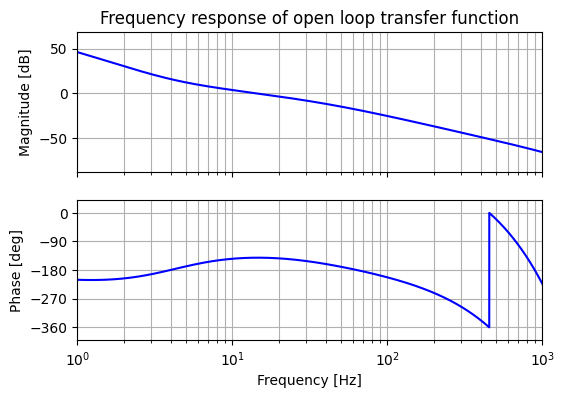
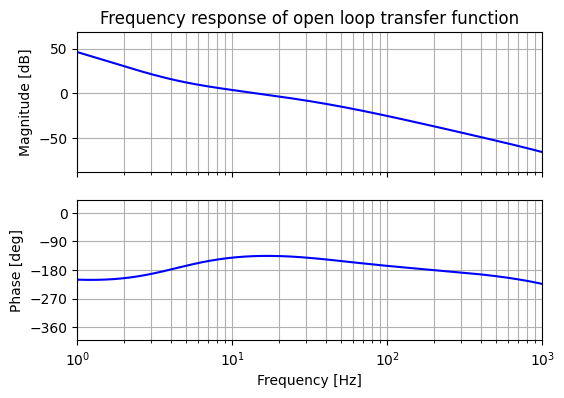
v-0.4.0

Changed region(s): [[0.2411, 0.5427, 0.9645, 0.8442], [0.1507, 0.6935, 0.2411, 0.7236], [0.9043, 0.603, 0.9344, 0.6332]]

diff --git a/example/Run_ptc.py b/example/Run_ptc.py
@@ -11,7 +11,9 @@ init.close_all()
 import os
 import shutil
 import numpy as np
+import control as ct
 from control import matlab
+import scipy.signal as signal
 from pylib_sakata import ctrl
 from pylib_sakata import traj
 from pylib_sakata import plot
@@ -19,7 +21,7 @@ from pylib_sakata import plot
 print('Start simulation!')
 
 # Common parameters
-figurefolderName = 'figure_exercise_15'
+figurefolderName = 'figure_ptc'
 if os.path.exists(figurefolderName):
     shutil.rmtree(figurefolderName)
 os.makedirs(figurefolderName)
@@ -35,11 +37,17 @@ print('Common parameters were set.')
 M = 2.0
 C = 10.0
 K = 0
-Pmechs = ctrl.tf([1], [M, C, K])
+Np = 2
+Ac = np.array([[0, 1], [-K/M, -C/M]])
+Bc = np.array([[0], [1/M]])
+Cc = np.array([[1, 0]])
+Dc = np.array([[0]])
+Pns = ct.ss(Ac, Bc, Cc, Dc)
+Pnz = ct.c2d(Pns, Ts, method='zoh')
+As, Bs, Cs, Ds = ct.ssdata(Pnz)
 Ndelay = 4
 Dz = z**-Ndelay
-Pnz = ctrl.c2d(Pmechs, Ts, method='zoh')
-Pnz_frd = ctrl.sys2frd(Pnz, freq)
+Pnz_frd = ctrl.sys2frd(Pnz * Dz, freq)
 print('Plant model was set.')
 
 # Design PID controller
@@ -52,10 +60,18 @@ Cz_frd = ctrl.sys2frd(Cz, freq)
 print('PID controller was designed.')
 
 # Design ZPETC
-Czpetc, Nzpetc = ctrl.zpetc(Pnz * Dz, Ts)
+Czpetc, Nzpetc = ctrl.zpetc(ct.ss2tf(Pnz) * Dz, Ts)
 Czpetc_frd = ctrl.sys2frd(Czpetc, freq)
 lead_frd = ctrl.sys2frd(z**Nzpetc, freq)
 print('ZPETC was designed.')
+
+# Design PTC
+A = As @ As
+B = np.append(As @ Bs, Bs, 1)
+C = np.append(Cs, Cs @ As, 0)
+D = np.append(np.zeros([1, 2]), np.append(Cs @ Bs, np.array([[0]]), 1), 0)
+PTC = signal.StateSpace(np.zeros([2, 2]), np.eye(2), -np.linalg.inv(B) @ A, np.linalg.inv(B), dt=Np*Ts)
+print('PTC was designed.')
 
 print('Frequency response analysis is running...')
 Gn_frd = Pnz_frd * Cz_frd
@@ -63,6 +79,7 @@ Sn_frd = 1/(1 + Gn_frd)
 Tn_frd = 1 - Sn_frd
 
 print('Time response analysis is running...')
+# Target trajectory
 Snz = ctrl.feedback(Pnz, Cz, sys='S')
 traj_4th = traj.traj4th(0, 1.0, 0.5, 1.0, Ts, 0.5)
 t_4th = traj_4th.time
@@ -72,17 +89,22 @@ a_4th = traj_4th.acc
 n = Nzpetc
 r_4th_pre = np.roll(r_4th, -n)
 r_4th_pre[-n:] = r_4th[-1]
-n = Ndelay
-r_4th_ff = np.roll(r_4th, -n)
-r_4th_ff[-n:] = r_4th[-1]
-v_4th_ff = np.roll(v_4th, -n)
-v_4th_ff[-n:] = v_4th[-1]
-a_4th_ff = np.roll(a_4th, -n)
-a_4th_ff[-n:] = a_4th[-1]
-uff = M * a_4th_ff + C * v_4th_ff + K * r_4th_ff
+traj_4th = traj.traj4th(0, 1.0, 0.5, 1.0, Np * Ts, 0.5)
+n = 1 + int(Ndelay / Np)
+r_4th_ptc = np.roll(traj_4th.pos, -n)
+r_4th_ptc[-n:] = traj_4th.pos[-n]
+v_4th_ptc = np.roll(traj_4th.vel, -n)
+v_4th_ptc[-n:] = traj_4th.vel[-n]
+# ZPETC
 u_zpetc, tout, xout = matlab.lsim(ctrl.tf2ss(Czpetc), r_4th_pre)
-e1, u1, y1 = ctrl.trdsim(r_4th, t_4th, Pnz, Cz, uff=uff, Ndelay=Ndelay)
-e2, u2, y2 = ctrl.trdsim(r_4th, t_4th, Pnz, Cz, uff=u_zpetc, Ndelay=Ndelay)
+# PTC
+xd = np.array([r_4th_ptc, v_4th_ptc]).T
+t, u, x = signal.dlsim(PTC, xd)
+u_ptc = u.flatten()
+u_ptc = u_ptc[:-1]
+
+e1, u1, y1 = ctrl.trdsim(r_4th, t_4th, Pnz, Cz, uff=u_zpetc, Ndelay=Ndelay)
+e2, u2, y2 = ctrl.trdsim(r_4th, t_4th, Pnz, Cz, uff=u_ptc, Ndelay=Ndelay)
 
 print('Plotting figures...')
 # Time response
@@ -91,10 +113,10 @@ ax1 = fig.add_subplot(311)
 ax2 = fig.add_subplot(312)
 ax3 = fig.add_subplot(313)
 plot.plot_xy(ax1, t_4th, r_4th, '-', 'b', 1.5, 1.0, ylabel='Ref Pos [m]', title='Time response')
-plot.plot_xy(ax2, t_4th, e1*1.0e6, '-', 'b', 1.5, 1.0, legend='with Continuous FF')
-plot.plot_xy(ax2, t_4th, e2*1.0e6, '-', 'r', 1.5, 1.0, yrange=[-1, 1], xlabel='Time [s]', ylabel='Error Pos [$\mu$m]', legend='with ZPETC')
-plot.plot_xy(ax3, t_4th, u1 - uff, '-', 'b', 1.5, 1.0)
-plot.plot_xy(ax3, t_4th, u2 - u_zpetc, '-', 'r', 1.5, 1.0, yrange=[-0.01, 0.01], xlabel='Time [s]', ylabel='FB Out [N]')
+plot.plot_xy(ax2, t_4th, e1*1.0e9, '-', 'b', 1.5, 1.0, legend='with ZPETC')
+plot.plot_xy(ax2, t_4th, e2*1.0e9, '-', 'r', 1.5, 1.0, yrange=[-10, 10], xlabel='Time [s]', ylabel='Error Pos [nm]', legend='with PTC')
+plot.plot_xy(ax3, t_4th, u1 - u_zpetc, '-', 'b', 1.5, 1.0)
+plot.plot_xy(ax3, t_4th, u2 - u_ptc, '-', 'r', 1.5, 1.0, yrange=[-0.01, 0.01], xlabel='Time [s]', ylabel='FB Out [N]')
 plot.savefig(figurefolderName+'/time_resp_4th.png')
 
 # Plant
@@ -103,13 +125,6 @@ ax_mag = fig.add_subplot(211)
 ax_phase = fig.add_subplot(212)
 plot.plot_tffrd(ax_mag, ax_phase, Pnz_frd, '-', 'b', 1.5, 1.0, title='Frequency response of plant')
 plot.savefig(figurefolderName+'/freq_P.png')
-
-# ZPETC
-fig = plot.makefig()
-ax_mag = fig.add_subplot(211)
-ax_phase = fig.add_subplot(212)
-plot.plot_tffrd(ax_mag, ax_phase, Pnz_frd*Czpetc_frd*lead_frd, '-', 'b', 1.5, 1.0, phasebase=180, title='Frequency response of $P[z] \cdot C_{zpetc}[z] \cdot z^{N_{zpetc}}$')
-plot.savefig(figurefolderName+'/freq_ZPETC.png')
 
 # PID controller
 fig = plot.makefig()

diff --git a/example/Run_zpetc.py b/example/Run_zpetc.py
@@ -23,7 +23,7 @@ figurefolderName = 'figure_zpetc'
 if os.path.exists(figurefolderName):
     shutil.rmtree(figurefolderName)
 os.makedirs(figurefolderName)
-Ts = 1/8000
+Ts = 1/4000
 dataNum = 10000
 freqrange = [1, 1000]
 freq = np.logspace(np.log10(freqrange[0]), np.log10(freqrange[1]), dataNum, base=10)
@@ -36,25 +36,23 @@ M = 2.0
 C = 10.0
 K = 0
 Pmechs = ctrl.tf([1], [M, C, K])
-numDelay, denDelay = matlab.pade(Ts*4, n=4)
-Ds = ctrl.tf(numDelay, denDelay)
-Dz = z**-4
-Pns = Pmechs * Ds
-Pnz = ctrl.c2d(Pmechs, Ts, method='zoh') * Dz
+Ndelay = 4
+Dz = z**-Ndelay
+Pnz = ctrl.c2d(Pmechs, Ts, method='zoh')
 Pnz_frd = ctrl.sys2frd(Pnz, freq)
 print('Plant model was set.')
 
 # Design PID controller
-freq1 = 20.0
+freq1 = 10.0
 zeta1 = 1.0
-freq2 = 20.0
+freq2 = 10.0
 zeta2 = 1.0
 Cz = ctrl.pid(freq1, zeta1, freq2, zeta2, M, C, K, Ts)
 Cz_frd = ctrl.sys2frd(Cz, freq)
 print('PID controller was designed.')
 
 # Design ZPETC
-Czpetc, Nzpetc = ctrl.zpetc(Pnz, Ts)
+Czpetc, Nzpetc = ctrl.zpetc(Pnz * Dz, Ts)
 Czpetc_frd = ctrl.sys2frd(Czpetc, freq)
 lead_frd = ctrl.sys2frd(z**Nzpetc, freq)
 print('ZPETC was designed.')
@@ -66,21 +64,38 @@ Tn_frd = 1 - Sn_frd
 
 print('Time response analysis is running...')
 Snz = ctrl.feedback(Pnz, Cz, sys='S')
-traj = traj.traj4th(0, 500, 500, 1000, Ts, 0.5)
-e1, tout, xout = matlab.lsim(ctrl.tf2ss(Snz), traj.pos, traj.time)
-e2, tout, xout = matlab.lsim(ctrl.tf2ss((z**-Nzpetc-Czpetc*Pnz)), traj.pos, traj.time)
-e2, tout, xout = matlab.lsim(ctrl.tf2ss(Snz), e2, tout)
+traj_4th = traj.traj4th(0, 1.0, 0.5, 1.0, Ts, 0.5)
+t_4th = traj_4th.time
+r_4th = traj_4th.pos
+v_4th = traj_4th.vel
+a_4th = traj_4th.acc
+n = Nzpetc
+r_4th_pre = np.roll(r_4th, -n)
+r_4th_pre[-n:] = r_4th[-1]
+n = Ndelay
+r_4th_ff = np.roll(r_4th, -n)
+r_4th_ff[-n:] = r_4th[-1]
+v_4th_ff = np.roll(v_4th, -n)
+v_4th_ff[-n:] = v_4th[-1]
+a_4th_ff = np.roll(a_4th, -n)
+a_4th_ff[-n:] = a_4th[-1]
+uff = M * a_4th_ff + C * v_4th_ff + K * r_4th_ff
+u_zpetc, tout, xout = matlab.lsim(ctrl.tf2ss(Czpetc), r_4th_pre)
+e1, u1, y1 = ctrl.trdsim(r_4th, t_4th, Pnz, Cz, uff=uff, Ndelay=Ndelay)
+e2, u2, y2 = ctrl.trdsim(r_4th, t_4th, Pnz, Cz, uff=u_zpetc, Ndelay=Ndelay)
 
 print('Plotting figures...')
+# Time response
 fig = plot.makefig(dpi=150, figsize=(6,6))
 ax1 = fig.add_subplot(311)
 ax2 = fig.add_subplot(312)
 ax3 = fig.add_subplot(313)
-plot.plot_xy(ax1, traj.time, traj.pos, '-', 'b', 1.5, 1.0, ylabel='Ref Pos [mm]', title='Time response')
-plot.plot_xy(ax2, traj.time, traj.vel, '-', 'b', 1.5, 1.0, ylabel='Ref Vel [mm/s]')
-plot.plot_xy(ax3, tout, e1*1.0e3, '-', 'b', 1.5, 1.0, legend='w/o ZPETC')
-plot.plot_xy(ax3, tout, e2*1.0e3, '-', 'r', 1.5, 1.0, yrange=[-40.0, 40.0], xlabel='Time [s]', ylabel='Error Pos [$\mu$m]', legend='with ZPETC')
-plot.savefig(figurefolderName+'/time_resp.png')
+plot.plot_xy(ax1, t_4th, r_4th, '-', 'b', 1.5, 1.0, ylabel='Ref Pos [m]', title='Time response')
+plot.plot_xy(ax2, t_4th, e1*1.0e6, '-', 'b', 1.5, 1.0, legend='with Continuous FF')
+plot.plot_xy(ax2, t_4th, e2*1.0e6, '-', 'r', 1.5, 1.0, yrange=[-1, 1], xlabel='Time [s]', ylabel='Error Pos [$\mu$m]', legend='with ZPETC')
+plot.plot_xy(ax3, t_4th, u1 - uff, '-', 'b', 1.5, 1.0)
+plot.plot_xy(ax3, t_4th, u2 - u_zpetc, '-', 'r', 1.5, 1.0, yrange=[-0.01, 0.01], xlabel='Time [s]', ylabel='FB Out [N]')
+plot.savefig(figurefolderName+'/time_resp_4th.png')
 
 # Plant
 fig = plot.makefig()

diff --git a/example/Run_traj.py b/example/Run_traj.py
@@ -76,18 +76,18 @@ plot.plot_xy(ax3, traj1.time, traj1.acc, '--', 'b', 1.5, 1.0)
 plot.plot_xy(ax3, traj2.time, traj2.acc, '--', 'c', 1.5, 1.0)
 plot.plot_xy(ax3, traj3.time, traj3.acc, '-', 'r', 1.0, 1.0)
 plot.plot_xy(ax3, traj4.time, traj4.acc, '-', 'm', 1.0, 1.0)
-plot.plot_xy(ax3, traj5.time, traj5.acc, '-', 'g', 1.0, 1.0, ylabel='Acc [m/$s^2$]')
+plot.plot_xy(ax3, traj5.time, traj5.acc, '-', 'g', 1.0, 1.0, ylabel='Acc [m/$\mathrm{s^2}$]')
 plot.plot_xy(ax4, traj0.time, traj0.jerk, '--', 'k', 1.5, 1.0)
 plot.plot_xy(ax4, traj1.time, traj1.jerk, '--', 'b', 1.5, 1.0)
 plot.plot_xy(ax4, traj2.time, traj2.jerk, '--', 'c', 1.5, 1.0)
 plot.plot_xy(ax4, traj3.time, traj3.jerk, '-', 'r', 1.0, 1.0)
 plot.plot_xy(ax4, traj4.time, traj4.jerk, '-', 'm', 1.0, 1.0)
-plot.plot_xy(ax4, traj5.time, traj5.jerk, '-', 'g', 1.0, 1.0, xlabel='Time [s]', ylabel='Jerk [m/$s^3$]')
+plot.plot_xy(ax4, traj5.time, traj5.jerk, '-', 'g', 1.0, 1.0, xlabel='Time [s]', ylabel='Jerk [m/$\mathrm{s^3}$]')
 plot.plot_xy(ax5, traj1.time, traj1.snap, '--', 'b', 1.5, 1.0)
 plot.plot_xy(ax5, traj2.time, traj2.snap, '--', 'c', 1.5, 1.0)
 plot.plot_xy(ax5, traj3.time, traj3.snap, '-', 'r', 1.0, 1.0)
 plot.plot_xy(ax5, traj4.time, traj4.snap, '-', 'm', 1.0, 1.0)
-plot.plot_xy(ax5, traj5.time, traj5.snap, '-', 'g', 1.0, 1.0, xlabel='Time [s]', ylabel='Snap [m/$s^4$]')
+plot.plot_xy(ax5, traj5.time, traj5.snap, '-', 'g', 1.0, 1.0, xlabel='Time [s]', ylabel='Snap [m/$\mathrm{s^4}$]')
 plot.savefig(figurefolderName+'/time_traj.png')
 
 # FFT
@@ -98,7 +98,7 @@ plot.plot_xy(ax1, freq_fft1, jerk1_fft, '--', 'b', 1.5, 1.0, title='Power spectr
 plot.plot_xy(ax1, freq_fft2, jerk2_fft, '--', 'c', 1.5, 1.0, title='Power spectrum density', legend='4th v2')
 plot.plot_xy(ax1, freq_fft3, jerk3_fft, '-', 'r', 1.5, 1.0, title='Power spectrum density', legend='sin')
 plot.plot_xy(ax1, freq_fft3, jerk4_fft, '-', 'm', 1.5, 1.0, title='Power spectrum density', legend='sin v2')
-plot.plot_xy(ax1, freq_fft4, jerk5_fft, '-', 'g', 1.5, 1.0, xscale='log', yscale='log', xrange=[1.0, 100.0], yrange=[0.001, 100], xlabel='Frequency [Hz]', ylabel='Ref Jerk [mm/$s^3$]', legend='sin v3')
+plot.plot_xy(ax1, freq_fft4, jerk5_fft, '-', 'g', 1.5, 1.0, xscale='log', yscale='log', xrange=[1.0, 100.0], yrange=[0.001, 100], xlabel='Frequency [Hz]', ylabel='Ref Jerk [mm/$\mathrm{s^3}$]', legend='sin v3')
 plot.savefig(figurefolderName+'/time_fft.png')
 
 plot.showfig()

diff --git a/example/Run_traj2.py b/example/Run_traj2.py
@@ -61,10 +61,10 @@ plot.plot_xy(ax2, traj1.time, traj1.vel, '-', 'b', 1.5, 1.0)
 plot.plot_xy(ax2, traj2.time, traj2.vel, '-', 'c', 1.5, 1.0, ylabel='Vel [m/s]')
 plot.plot_xy(ax3, traj0.time, traj0.acc, '-', 'k', 1.5, 1.0)
 plot.plot_xy(ax3, traj1.time, traj1.acc, '-', 'b', 1.5, 1.0)
-plot.plot_xy(ax3, traj2.time, traj2.acc, '-', 'c', 1.5, 1.0, ylabel='Acc [m/$s^2$]')
+plot.plot_xy(ax3, traj2.time, traj2.acc, '-', 'c', 1.5, 1.0, ylabel='Acc [m/$\mathrm{s^2}$]')
 plot.plot_xy(ax4, traj0.time, traj0.jerk, '-', 'k', 1.5, 1.0)
 plot.plot_xy(ax4, traj1.time, traj1.jerk, '-', 'b', 1.5, 1.0)
-plot.plot_xy(ax4, traj2.time, traj2.jerk, '-', 'c', 1.5, 1.0, yrange=[-50, 50], xlabel='Time [s]', ylabel='Jerk [m/$s^3$]')
+plot.plot_xy(ax4, traj2.time, traj2.jerk, '-', 'c', 1.5, 1.0, yrange=[-50, 50], xlabel='Time [s]', ylabel='Jerk [m/$\mathrm{s^3}$]')
 plot.savefig(figurefolderName+'/time_traj.png')
 
 # FFT
@@ -72,7 +72,7 @@ fig = plot.makefig(dpi=200)
 ax1 = fig.add_subplot(111)
 plot.plot_xy(ax1, freq_fft0, jerk0_fft, '-', 'k', 1.5, 1.0, legend='JerkRatio: 0.1', title='Power spectrum density')
 plot.plot_xy(ax1, freq_fft1, jerk1_fft, '-', 'b', 1.5, 1.0, legend='JerkRatio: 0.2')
-plot.plot_xy(ax1, freq_fft2, jerk2_fft, '-', 'c', 1.5, 1.0, xscale='log', yscale='log', xrange=[1.0, 100.0], yrange=[0.001, 100], xlabel='Frequency [Hz]', ylabel='Ref Jerk [mm/$s^3$]', legend='JerkRatio: 0.5')
+plot.plot_xy(ax1, freq_fft2, jerk2_fft, '-', 'c', 1.5, 1.0, xscale='log', yscale='log', xrange=[1.0, 100.0], yrange=[0.001, 100], xlabel='Frequency [Hz]', ylabel='Ref Jerk [mm/$\mathrm{s^3}$]', legend='JerkRatio: 0.5')
 plot.savefig(figurefolderName+'/time_fft.png')
 
 plot.showfig()

diff --git a/example/Run_trdsim.py b/example/Run_trdsim.py
@@ -79,9 +79,9 @@ print('Time response analysis is running...')
 posStep = 0.4
 velMax = 1
 accAve = 10
-traj = traj.traj4th(0, posStep, velMax, accAve, Ts, 0.5)
-r = traj.pos
-t = traj.time
+traj_4th = traj.traj4th(0, posStep, velMax, accAve, Ts, 0.5)
+r = traj_4th.pos
+t = traj_4th.time
 e, u, y = ctrl.trdsim(r, t, Pnz1, Cz, Ndelay=Ndelay)
 
 print('Plotting figures...')
